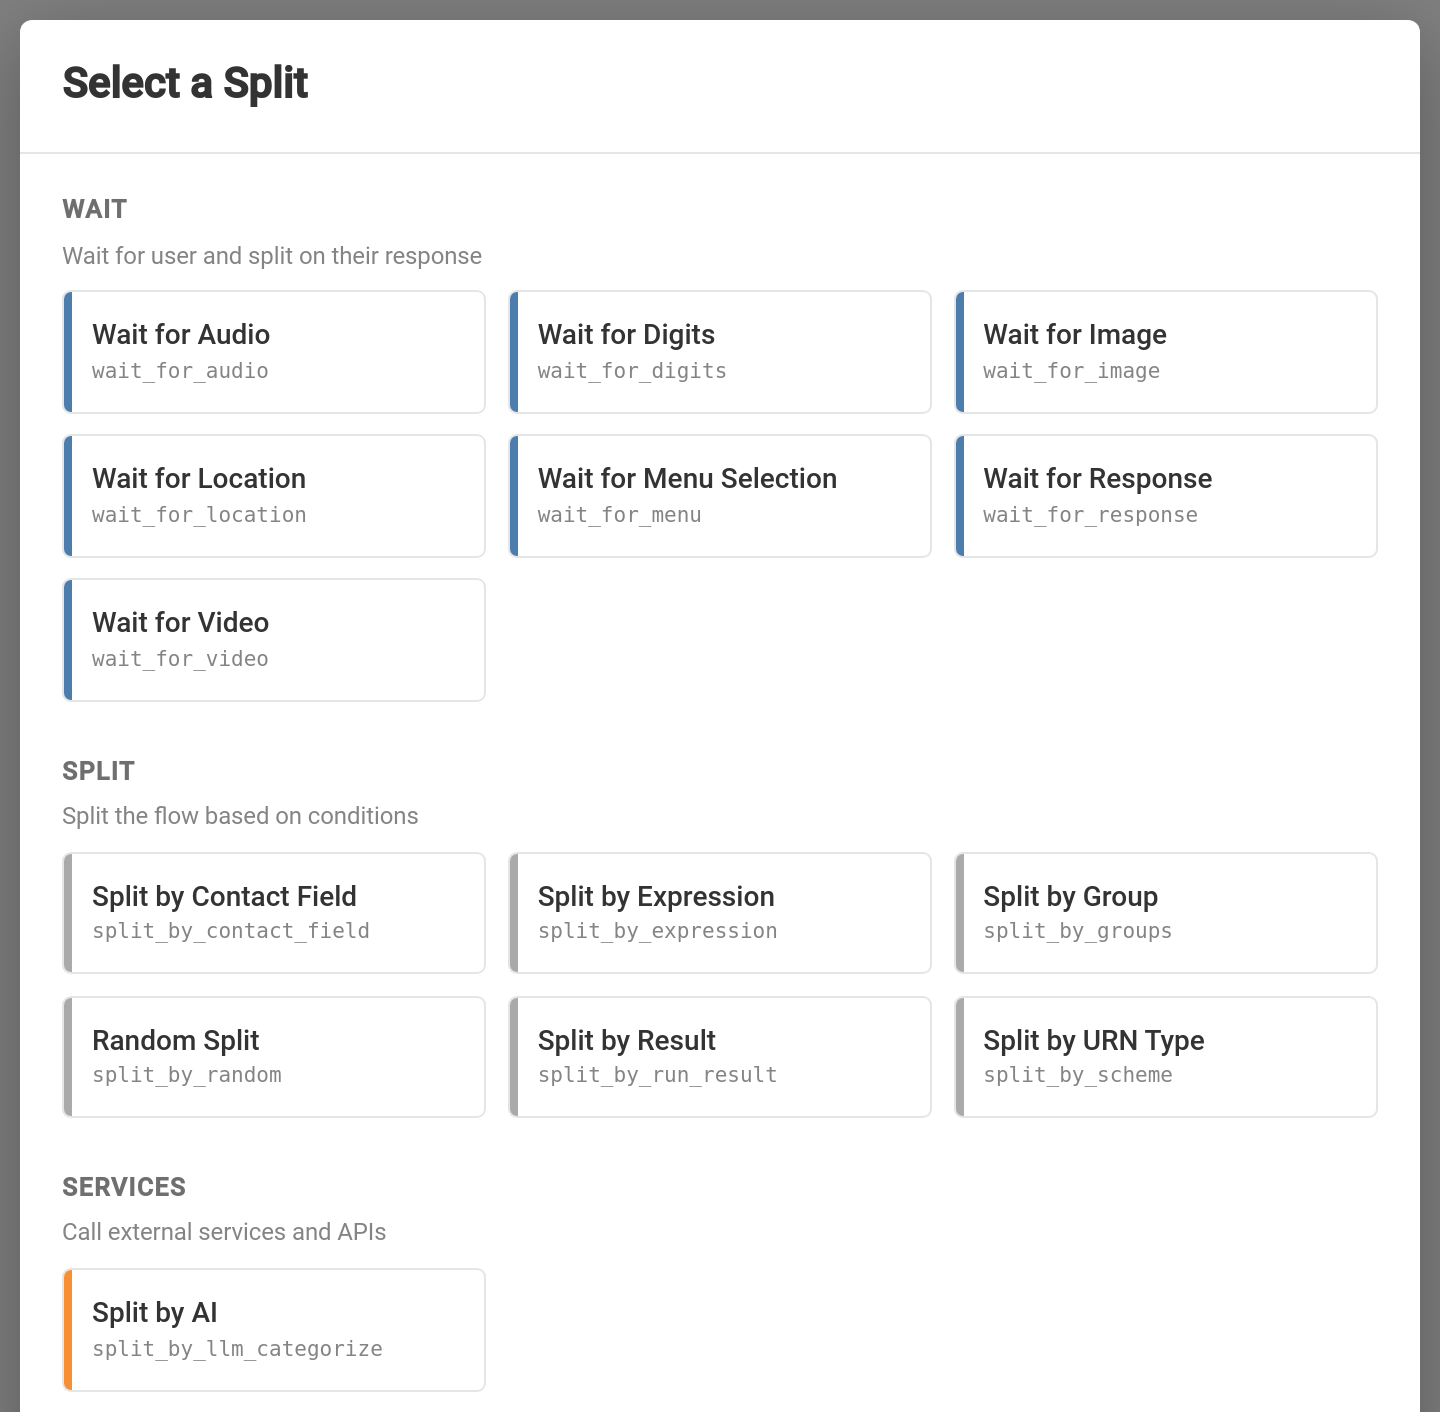
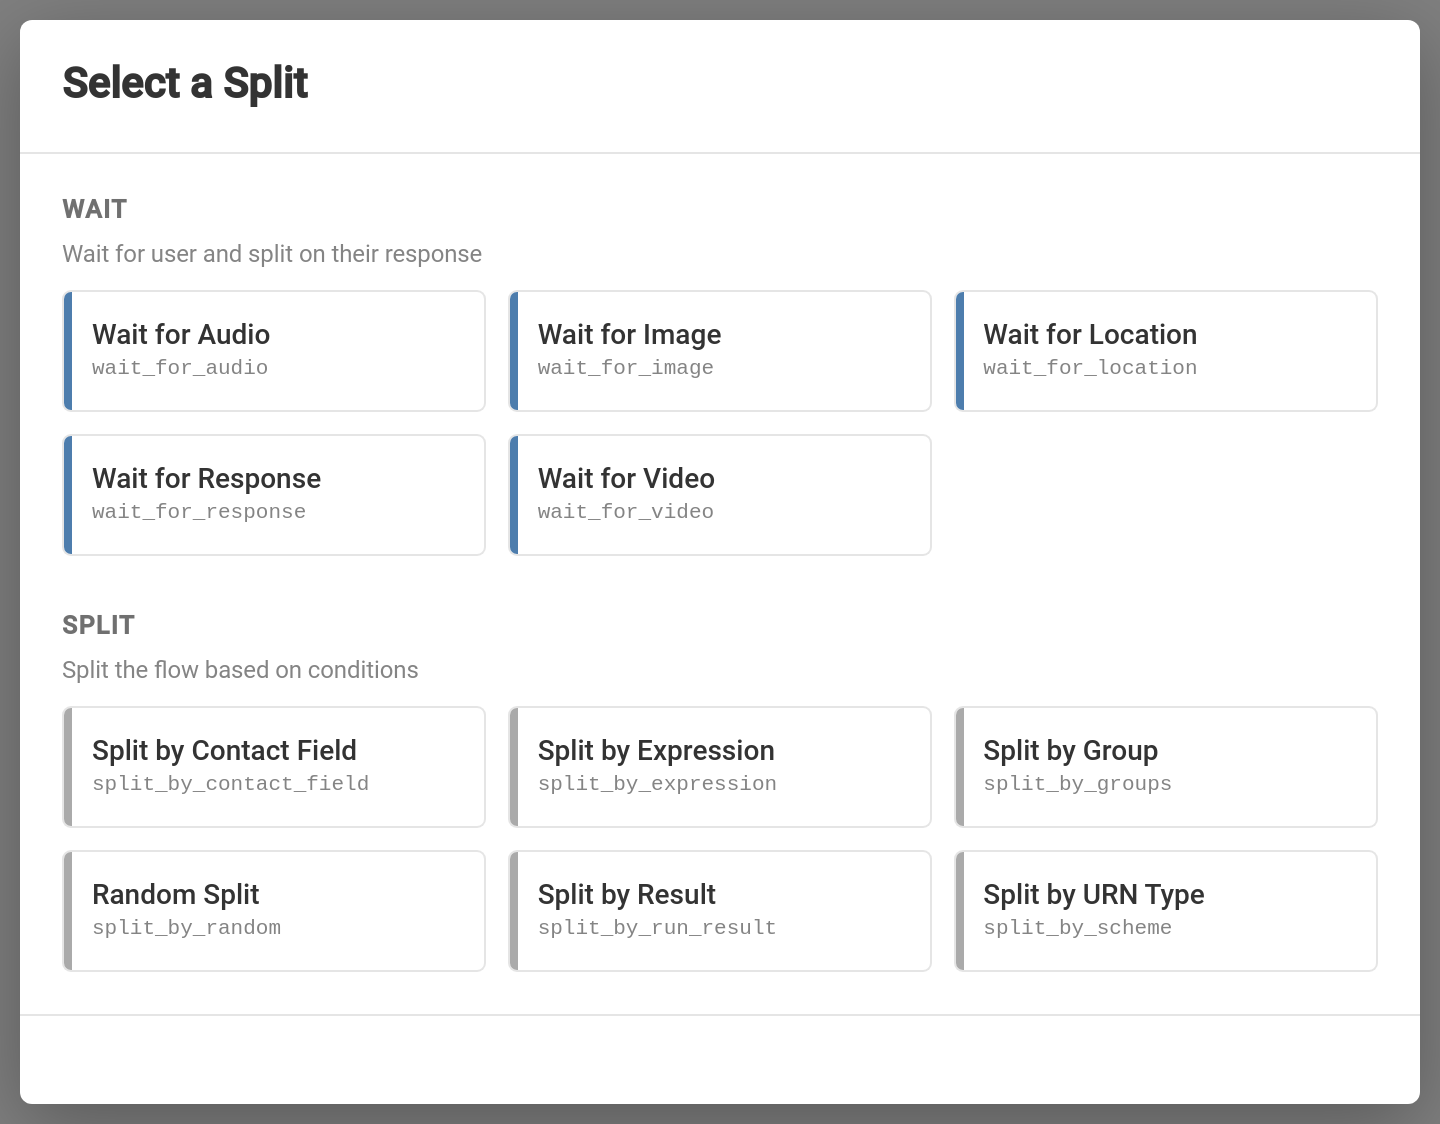
Fix filtering tests and update screenshots
- Fixed tests to trim whitespace from textContent when checking titles
- Removed debug logging from isConfigAvailable
- Updated split-mode screenshot to reflect filtered items
- All tests now passing including new filtering tests

diff --git a/test/temba-node-type-selector.test.ts b/test/temba-node-type-selector.test.ts
@@ -159,7 +159,9 @@ describe('temba-node-type-selector', () => {
 
     // get all node item titles
     const nodeItems = selector.shadowRoot?.querySelectorAll('.node-item-title');
-    const titles = Array.from(nodeItems || []).map((item) => item.textContent);
+    const titles = Array.from(nodeItems || []).map((item) =>
+      item.textContent?.trim()
+    );
 
     // voice flow should have Say Message and Play Audio
     expect(titles).to.include('Say Message');
@@ -175,7 +177,9 @@ describe('temba-node-type-selector', () => {
 
     // get all node item titles
     const nodeItems = selector.shadowRoot?.querySelectorAll('.node-item-title');
-    const titles = Array.from(nodeItems || []).map((item) => item.textContent);
+    const titles = Array.from(nodeItems || []).map((item) =>
+      item.textContent?.trim()
+    );
 
     // message flow should not have Say Message or Play Audio
     expect(titles).to.not.include('Say Message');
@@ -191,7 +195,9 @@ describe('temba-node-type-selector', () => {
 
     // get all node item titles
     const nodeItems = selector.shadowRoot?.querySelectorAll('.node-item-title');
-    const titles = Array.from(nodeItems || []).map((item) => item.textContent);
+    const titles = Array.from(nodeItems || []).map((item) =>
+      item.textContent?.trim()
+    );
 
     // message flow should have Wait for Response
     expect(titles).to.include('Wait for Response');
@@ -206,7 +212,9 @@ describe('temba-node-type-selector', () => {
 
     // get all node item titles
     const nodeItems = selector.shadowRoot?.querySelectorAll('.node-item-title');
-    const titles = Array.from(nodeItems || []).map((item) => item.textContent);
+    const titles = Array.from(nodeItems || []).map((item) =>
+      item.textContent?.trim()
+    );
 
     // voice flow should not have Wait for Response
     expect(titles).to.not.include('Wait for Response');
@@ -226,7 +234,9 @@ describe('temba-node-type-selector', () => {
 
     // get all node item titles
     const nodeItems = selector.shadowRoot?.querySelectorAll('.node-item-title');
-    const titles = Array.from(nodeItems || []).map((item) => item.textContent);
+    const titles = Array.from(nodeItems || []).map((item) =>
+      item.textContent?.trim()
+    );
 
     // with ai feature, should have Split by AI
     expect(titles).to.include('Split by AI');
@@ -242,7 +252,9 @@ describe('temba-node-type-selector', () => {
 
     // get all node item titles
     const nodeItems = selector.shadowRoot?.querySelectorAll('.node-item-title');
-    const titles = Array.from(nodeItems || []).map((item) => item.textContent);
+    const titles = Array.from(nodeItems || []).map((item) =>
+      item.textContent?.trim()
+    );
 
     // without ai feature, should not have Split by AI
     expect(titles).to.not.include('Split by AI');
@@ -258,7 +270,9 @@ describe('temba-node-type-selector', () => {
 
     // get all node item titles
     const nodeItems = selector.shadowRoot?.querySelectorAll('.node-item-title');
-    const titles = Array.from(nodeItems || []).map((item) => item.textContent);
+    const titles = Array.from(nodeItems || []).map((item) =>
+      item.textContent?.trim()
+    );
 
     // with airtime feature, should have Send Airtime
     expect(titles).to.include('Send Airtime');
@@ -274,7 +288,9 @@ describe('temba-node-type-selector', () => {
 
     // get all node item titles
     const nodeItems = selector.shadowRoot?.querySelectorAll('.node-item-title');
-    const titles = Array.from(nodeItems || []).map((item) => item.textContent);
+    const titles = Array.from(nodeItems || []).map((item) =>
+      item.textContent?.trim()
+    );
 
     // without airtime feature, should not have Send Airtime
     expect(titles).to.not.include('Send Airtime');
